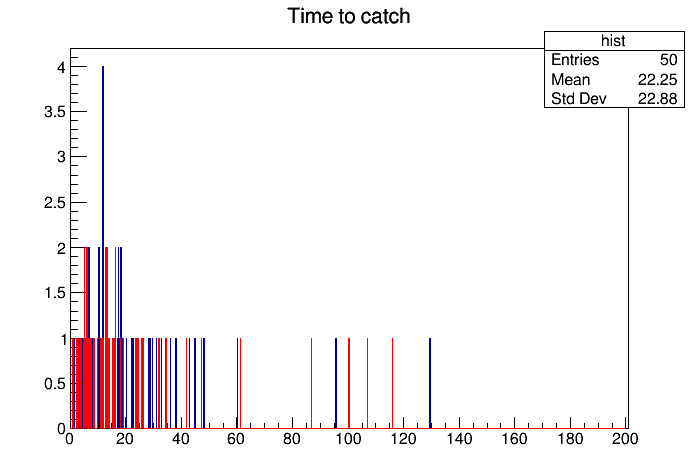
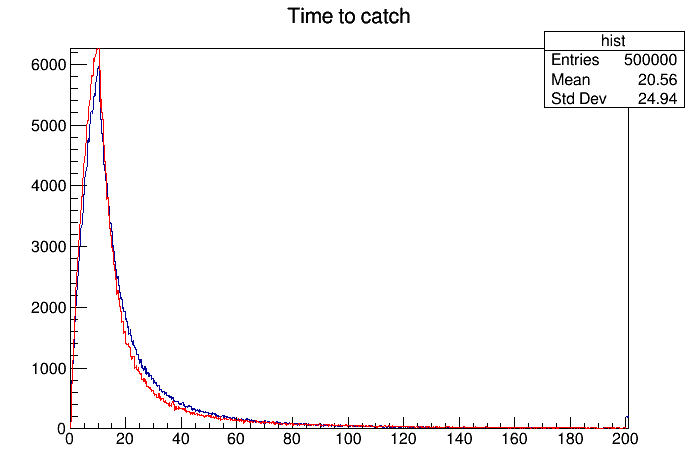
xd

Changed region(s): [[0.0301, 0.1176, 0.8424, 0.9118], [0.9026, 0.1176, 0.9628, 0.2353]]

diff --git a/learningroot/particles/particles.cpp b/learningroot/particles/particles.cpp
@@ -461,7 +461,7 @@ void particles()
 
 ///*
     auto tile = new Tile(0,0,0,0,0,0, true);
-    double half_photons = 25;
+    double half_photons = 250000;
     std::default_random_engine generator;
     std::normal_distribution<double> distribution(0.0,1.0);
     for (int i = -half_photons; i < half_photons; ++i)
@@ -508,12 +508,12 @@ void particles()
     mycanvas->SaveAs("./Signal.png");
 
 //*/
-    /*
+    ///*
     auto a = MakeBrick(350,350,350, 0,0,0);
     a->DrawWires();
     Detector detector;
     detector.Draw();
-    */
+    //*/
 
 };
 
